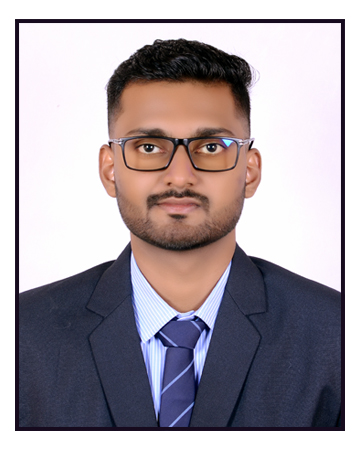
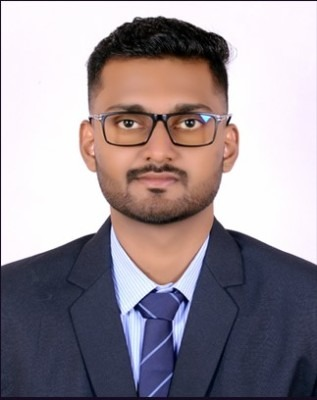
Login Update Calendar Updates

diff --git a/P2PERP/Scripts/Calendar-modal.js b/P2PERP/Scripts/Calendar-modal.js
@@ -602,7 +602,7 @@ document.addEventListener('DOMContentLoaded', function () {
     function renderGoodsReturn(props) {
         if (!props) return;
         const modalTitle = document.querySelector('#eventModal .modal-title');
-        modalTitle.textContent = "Goods Return";
+        modalTitle.textContent = "Purchase Return";
 
         let isAssign = (props.StatusName) === 'Assign';
 
